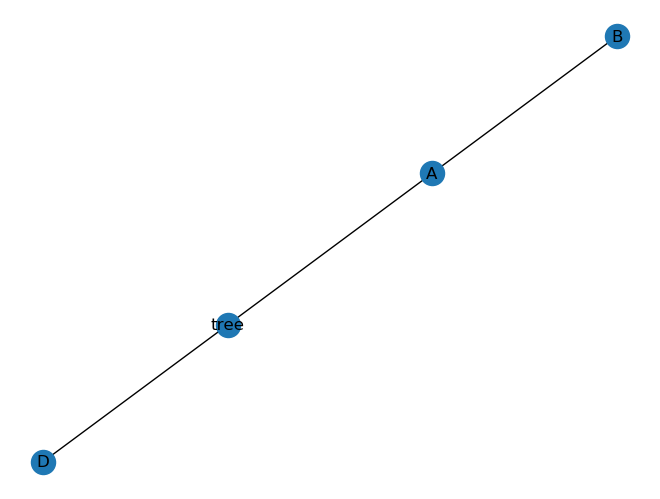
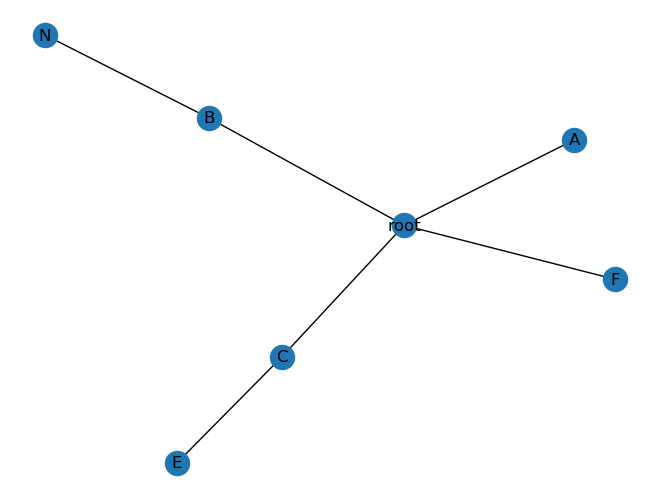
调用pyecharts库，treelib库对绘制树图进行了尝试。

diff --git a/draw_tree_test.py b/draw_tree_test.py
@@ -135,26 +135,6 @@ class MultiTree(object):
                           new_parent.name)
                     print('*' * 30)
 
-    def show_tree(self):
-        """
-        利用networkx转换成图结构，方便结合matplotlib将树画出来
-        """
-        G = nx.Graph()
-        self.to_graph_recursion(self.tree, G)
-        nx.draw(G, with_labels=True)
-        plt.savefig('fig.png', bbox_inches='tight')
-        # plt.show()
-
-    def to_graph_recursion(self, tree, G):
-        """
-        将节点加入到图中
-        """
-        G.add_node(tree.name)
-        for child in tree.children:
-            G.add_nodes_from([tree.name, child.name])
-            G.add_edge(tree.name, child.name)
-            self.to_graph_recursion(child, G)
-
     def if_node_exist_recursion(self, tree, node, search, if_del):
         """
         tree:需要判断是否存在node节点的树
@@ -196,21 +176,44 @@ class MultiTree(object):
             else:
                 self.add_recursion(parent, node, child)
 
+    def show_tree(self):
+        """
+        利用networkx转换成图结构，方便结合matplotlib将树画出来
+        """
+        G = nx.Graph()
+        self.to_graph_recursion(self.tree, G)
+        nx.draw(G, with_labels=True)
+        plt.savefig('fig.png', bbox_inches='tight')
+        # plt.show()
+
+    def to_graph_recursion(self, tree, G):
+        """
+        将节点加入到图中
+        """
+        G.add_node(tree.name)
+        for child in tree.children:
+            G.add_nodes_from([tree.name, child.name])
+            G.add_edge(tree.name, child.name, edge_color='b')
+            self.to_graph_recursion(child, G)
+
 
 def main():
-    T = MultiTree('tree')
+    T = MultiTree('root')
     A = TreeNode('A')
     B = TreeNode('B')
     C = TreeNode('C')
     D = TreeNode('D')
     E = TreeNode('E')
     N = TreeNode('N')
-    G = TreeNode('G')
+    F = TreeNode('F')
     T.add(A)
-    T.add(D)
-    T.add(B, A)
-    # T.add(C, A)
-    # T.add(E, C)
+    T.add(B)
+    T.add(C)
+    T.add(F)
+    T.add(E, C)
+    T.add(N, B)
+    T.add(B, F)
+    T.search(A)
     T.show_tree()
 
 

diff --git a/lib_tree.py b/lib_tree.py
@@ -1,4 +1,8 @@
-from treelib import Tree
+import json
+import os
+from pyecharts import options as opts
+from pyecharts.charts import Page, Tree
+from treelib import Tree as json_tree
 
 
 class Node(object):
@@ -6,12 +10,30 @@ class Node(object):
         self.data = data
 
 
-tree = Tree()
+tree = json_tree()
 tree.create_node('root', 'root', data=Node('ROOT'))
 tree.create_node('left', 'left', parent='root', data=Node('left'))
 tree.create_node('middle', 'middle', parent='left', data=Node('middle'))
 tree.create_node('right', 'right', parent='root', data=Node('right'))
 
 tree.show()
-print(tree.depth())
-print(str(tree))
+tree_data = tree.to_json(sort=True, reverse=False)
+print(tree_data)
+
+
+# tree_file = open('./tree_json.json', 'w')
+# tree_file.write(tree_data)
+
+
+def tree_base() -> Tree:
+    with open(os.path.join("tree_json.json"), "r", encoding="utf-8") as f:
+        j = json.load(f)
+    c = (
+        Tree()
+            .add("", [j], orient="TB", symbol="roundRect", symbol_size=[20, 10], label_opts={"color": "blue", "position": "top"})
+            .set_global_opts(title_opts=opts.TitleOpts(title="Tree"))
+    )
+    return c
+
+
+tree_base().render()
